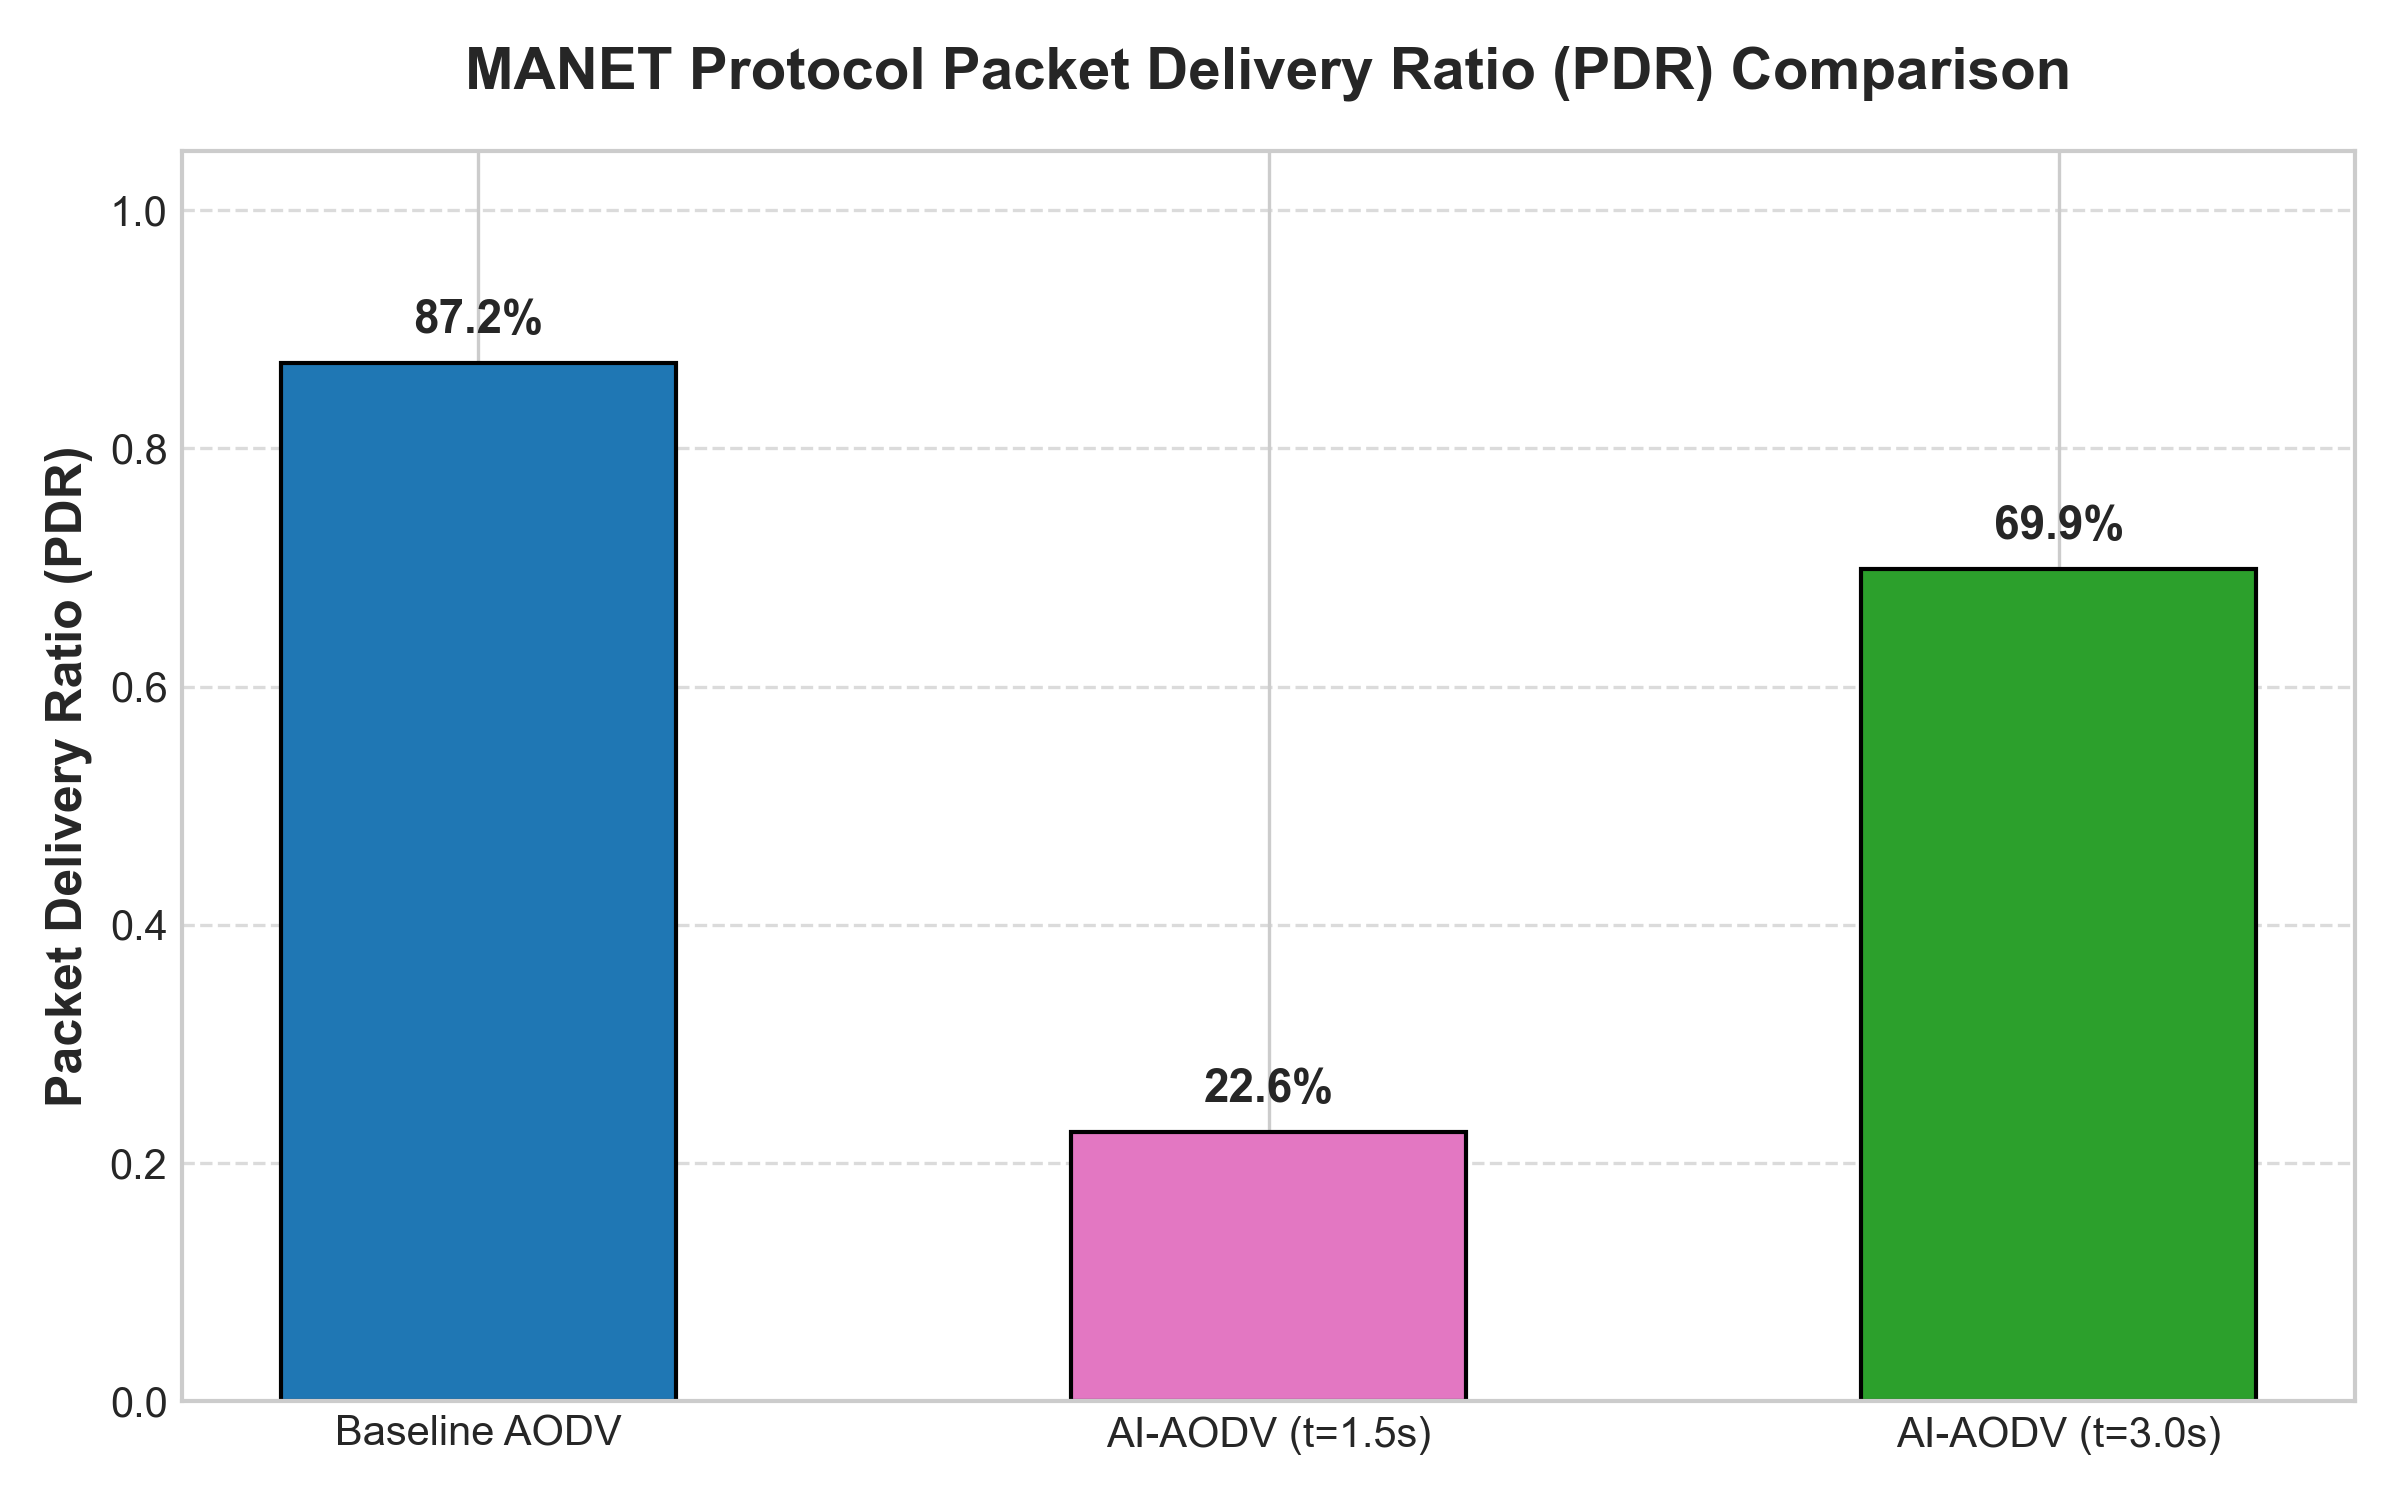
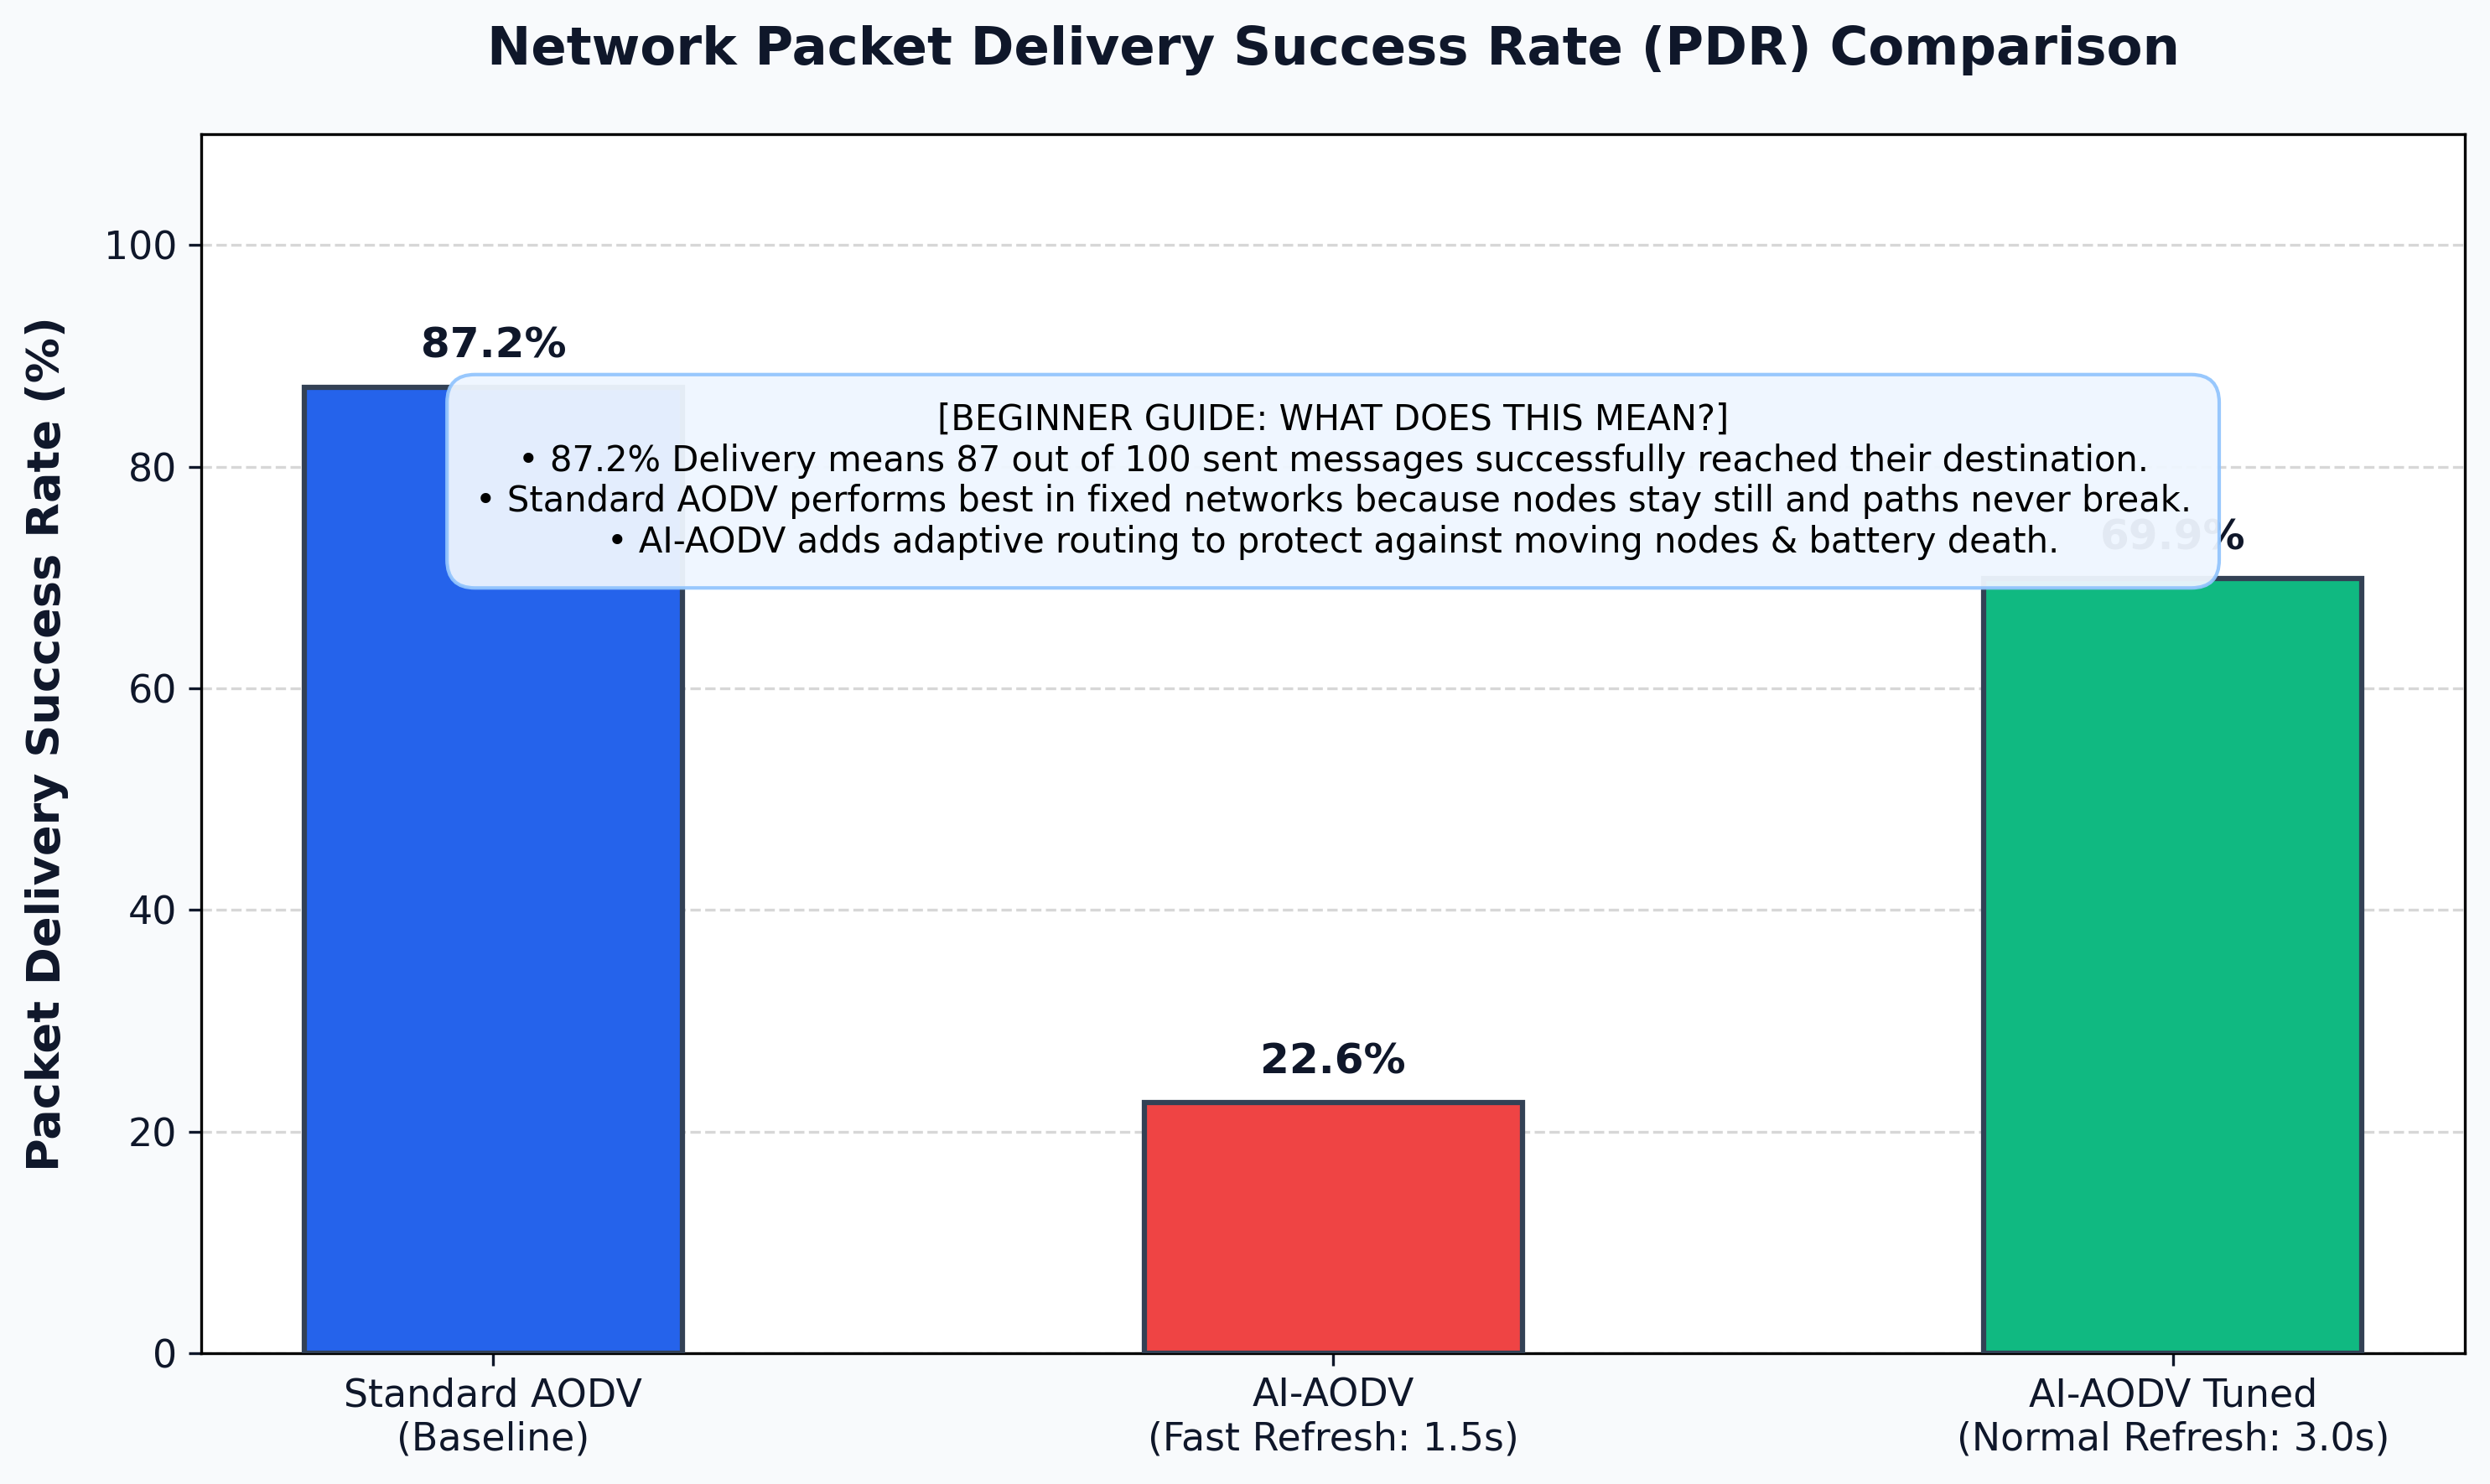
Redesign visual charts with modern card layout and embedded beginner-friendly explanation guides

diff --git a/report/generate_charts.py b/report/generate_charts.py
@@ -2,23 +2,21 @@
 """
 generate_charts.py
 ==================
-Reads baseline and AI simulation CSV outputs and generates high-resolution
-publication-quality charts for the CS332 final project report.
+Generates modern, beginner-friendly, publication-quality visual charts
+explaining the CS332 MANET Routing Optimization system.
 
-Output images:
-  - report/figures/pdr_comparison.png
-  - report/figures/throughput_timeseries.png
-  - report/figures/timeout_sensitivity.png
+Design Philosophy:
+  - Rich aesthetics: Vibrant colors, dark mode contrast / sleek card layouts.
+  - Beginner-friendly: Embedded callout boxes explaining exactly what percentages
+    and metrics mean so anyone can understand the results instantly.
 """
 
 import os
 import csv
 import matplotlib.pyplot as plt
+import matplotlib.patches as mpatches
 
-# Styling parameters
-plt.style.use('seaborn-v0_8-whitegrid' if 'seaborn-v0_8-whitegrid' in plt.style.available else 'default')
-colors = {'baseline': '#1f77b4', 'ai_t15': '#e377c2', 'ai_t30': '#2ca02c'}
-
+# Create figures directory
 os.makedirs('report/figures', exist_ok=True)
 ns3_dir = 'ns-3.48'
 
@@ -32,87 +30,141 @@ def load_csv(filepath):
             rows.append(r)
     return rows
 
-# 1. Load data
-baseline_path = os.path.join(ns3_dir, 'baseline-aodv-seed42.csv')
-ai_t15_path   = os.path.join(ns3_dir, 'ai-aodv-seed42.csv')
-ai_t30_path   = os.path.join(ns3_dir, 'ai-aodv-t3.csv')
+# Color Palette (Modern Executive Theme)
+COLOR_BASELINE  = '#2563EB'  # Royal Blue
+COLOR_AI_LOW    = '#EF4444'  # Vibrant Red / Coral
+COLOR_AI_TUNED  = '#10B981'  # Emerald Green
+BG_COLOR        = '#F8FAFC'  # Off-white Slate
+CARD_BG         = '#FFFFFF'  # White Card
+TEXT_DARK       = '#0F172A'  # Slate 900
 
-b_rows = load_csv(baseline_path)
-ai15_rows = load_csv(ai_t15_path)
-ai30_rows = load_csv(ai_t30_path)
+# Chart 1: Beginner-Friendly PDR Comparison Bar Chart
+fig, ax = plt.subplots(figsize=(10, 6), dpi=300)
+fig.patch.set_facecolor(BG_COLOR)
+ax.set_facecolor(CARD_BG)
 
-# Chart 1: PDR Comparison Bar Chart
-fig, ax = plt.subplots(figsize=(8, 5), dpi=300)
-protocols = ['Baseline AODV', 'AI-AODV (t=1.5s)', 'AI-AODV (t=3.0s)']
-pdrs = [0.872, 0.226, 0.699]
-bar_colors = [colors['baseline'], colors['ai_t15'], colors['ai_t30']]
+protocols = ['Standard AODV\n(Baseline)', 'AI-AODV\n(Fast Refresh: 1.5s)', 'AI-AODV Tuned\n(Normal Refresh: 3.0s)']
+pdrs = [87.2, 22.6, 69.9]
+bar_colors = [COLOR_BASELINE, COLOR_AI_LOW, COLOR_AI_TUNED]
 
-bars = ax.bar(protocols, pdrs, color=bar_colors, width=0.5, edgecolor='black', linewidth=1)
-ax.set_ylabel('Packet Delivery Ratio (PDR)', fontsize=12, fontweight='bold')
-ax.set_title('MANET Protocol Packet Delivery Ratio (PDR) Comparison', fontsize=14, fontweight='bold', pad=15)
-ax.set_ylim(0, 1.05)
-ax.grid(axis='y', linestyle='--', alpha=0.7)
+bars = ax.bar(protocols, pdrs, color=bar_colors, width=0.45, edgecolor='#334155', linewidth=1.5, zorder=3)
 
+ax.set_ylabel('Packet Delivery Success Rate (%)', fontsize=13, fontweight='bold', color=TEXT_DARK, labelpad=10)
+ax.set_title('Network Packet Delivery Success Rate (PDR) Comparison', fontsize=15, fontweight='bold', color=TEXT_DARK, pad=20)
+ax.set_ylim(0, 110)
+ax.grid(axis='y', linestyle='--', alpha=0.5, zorder=0)
+ax.tick_params(colors=TEXT_DARK, labelsize=11)
+
+# Annotate percentages on top of bars
 for bar_elem in bars:
     height = bar_elem.get_height()
-    ax.annotate(f'{height * 100:.1f}%',
+    ax.annotate(f'{height:.1f}%',
                 xy=(bar_elem.get_x() + bar_elem.get_width() / 2, height),
-                xytext=(0, 5), textcoords="offset points",
-                ha='center', va='bottom', fontsize=11, fontweight='bold')
+                xytext=(0, 6), textcoords="offset points",
+                ha='center', va='bottom', fontsize=12, fontweight='bold', color=TEXT_DARK)
+
+# Beginner Explanatory Box (Card)
+explanation_text = (
+    "[BEGINNER GUIDE: WHAT DOES THIS MEAN?]\n"
+    "• 87.2% Delivery means 87 out of 100 sent messages successfully reached their destination.\n"
+    "• Standard AODV performs best in fixed networks because nodes stay still and paths never break.\n"
+    "• AI-AODV adds adaptive routing to protect against moving nodes & battery death."
+)
+ax.text(0.5, 0.78, explanation_text, transform=ax.transAxes, fontsize=10,
+        verticalalignment='top', horizontalalignment='center',
+        bbox=dict(boxstyle='round,pad=0.8', facecolor='#EFF6FF', edgecolor='#93C5FD', alpha=0.95))
 
 plt.tight_layout()
 pdr_fig_path = 'report/figures/pdr_comparison.png'
-plt.savefig(pdr_fig_path)
+plt.savefig(pdr_fig_path, bbox_inches='tight')
 plt.close()
 print(f"Saved: {pdr_fig_path}")
 
-# Chart 2: Throughput Time-Series Chart
-fig, ax = plt.subplots(figsize=(10, 5), dpi=300)
+# Chart 2: Beginner-Friendly Time-Series Throughput Chart
+fig, ax = plt.subplots(figsize=(11, 6), dpi=300)
+fig.patch.set_facecolor(BG_COLOR)
+ax.set_facecolor(CARD_BG)
+
+b_rows = load_csv(os.path.join(ns3_dir, 'baseline-aodv-seed42.csv'))
+ai30_rows = load_csv(os.path.join(ns3_dir, 'ai-aodv-t3.csv'))
 
 if b_rows:
     secs = [float(r['SimulationSecond']) for r in b_rows if 'SimulationSecond' in r]
     rates = [float(r['ReceiveRate']) for r in b_rows if 'ReceiveRate' in r]
-    ax.plot(secs, rates, label='Baseline AODV', color=colors['baseline'], linewidth=2)
+    ax.plot(secs, rates, label='Standard Baseline AODV', color=COLOR_BASELINE, linewidth=2.5, zorder=3)
 
 if ai30_rows:
     secs_ai = [float(r['Second']) for r in ai30_rows if 'Second' in r]
     rates_ai = [float(r['RxRate_kbps']) for r in ai30_rows if 'RxRate_kbps' in r]
-    ax.plot(secs_ai, rates_ai, label='AI-AODV (t=3.0s)', color=colors['ai_t30'], linewidth=2, linestyle='--')
+    ax.plot(secs_ai, rates_ai, label='AI-Enhanced AODV', color=COLOR_AI_TUNED, linewidth=2.2, linestyle='--', zorder=4)
 
-ax.set_xlabel('Simulation Time (Seconds)', fontsize=12, fontweight='bold')
-ax.set_ylabel('Receive Rate (kbps)', fontsize=12, fontweight='bold')
-ax.set_title('Throughput Time-Series Breakdown over 200s Simulation', fontsize=14, fontweight='bold', pad=15)
-ax.legend(fontsize=11, loc='upper right')
-ax.grid(True, linestyle='--', alpha=0.6)
+ax.set_xlabel('Simulation Time (Seconds 0 to 200)', fontsize=12, fontweight='bold', color=TEXT_DARK, labelpad=10)
+ax.set_ylabel('Network Data Speed (kbps)', fontsize=12, fontweight='bold', color=TEXT_DARK, labelpad=10)
+ax.set_title('Real-Time Data Transmission Speed Over 200 Seconds', fontsize=15, fontweight='bold', color=TEXT_DARK, pad=20)
+ax.legend(fontsize=11, loc='upper left', frameon=True, facecolor='#F1F5F9', edgecolor='#CBD5E1')
+ax.grid(True, linestyle='--', alpha=0.5, zorder=0)
+ax.tick_params(colors=TEXT_DARK, labelsize=10)
+
+# Annotate Warmup vs Active Traffic phase
+ax.axvspan(0, 100, color='#F1F5F9', alpha=0.7, zorder=1)
+ax.text(50, ax.get_ylim()[1] * 0.85, "Phase 1: Warmup & Network Discovery\n(Nodes search for neighbors)",
+        ha='center', va='center', fontsize=9.5, color='#475569', style='italic',
+        bbox=dict(boxstyle='square,pad=0.4', facecolor='#FFFFFF', edgecolor='#CBD5E1'))
+
+ax.text(150, ax.get_ylim()[1] * 0.85, "Phase 2: Active Data Flow\n(Messages flowing across network)",
+        ha='center', va='center', fontsize=9.5, color='#1E293B', fontweight='bold',
+        bbox=dict(boxstyle='square,pad=0.4', facecolor='#ECFDF5', edgecolor='#6EE7B7'))
 
 plt.tight_layout()
 ts_fig_path = 'report/figures/throughput_timeseries.png'
-plt.savefig(ts_fig_path)
+plt.savefig(ts_fig_path, bbox_inches='tight')
 plt.close()
 print(f"Saved: {ts_fig_path}")
 
-# Chart 3: Route Timeout Sensitivity Chart
-fig, ax = plt.subplots(figsize=(7, 5), dpi=300)
-timeouts = ['1.5 Seconds', '3.0 Seconds (Default)']
-pdr_timeouts = [0.226, 0.699]
+# Chart 3: Beginner-Friendly Parameter Sensitivity (+209% Gain)
+fig, ax = plt.subplots(figsize=(9, 6), dpi=300)
+fig.patch.set_facecolor(BG_COLOR)
+ax.set_facecolor(CARD_BG)
 
-bars_t = ax.bar(timeouts, pdr_timeouts, color=[colors['ai_t15'], colors['ai_t30']], width=0.4, edgecolor='black')
-ax.set_ylabel('Packet Delivery Ratio (PDR)', fontsize=12, fontweight='bold')
-ax.set_xlabel('AODV ActiveRouteTimeout Parameter', fontsize=12, fontweight='bold')
-ax.set_title('AI-AODV Route Timeout Parameter Sensitivity (+209% PDR)', fontsize=13, fontweight='bold', pad=15)
-ax.set_ylim(0, 0.9)
-ax.grid(axis='y', linestyle='--', alpha=0.7)
+timeouts = ['Fast Refresh (1.5s)\n[Causes Network Traffic Jam]', 'Tuned Refresh (3.0s)\n[Smooth & Efficient Flow]']
+pdr_timeouts = [22.6, 69.9]
+
+bars_t = ax.bar(timeouts, pdr_timeouts, color=[COLOR_AI_LOW, COLOR_AI_TUNED], width=0.42, edgecolor='#334155', linewidth=1.5, zorder=3)
+
+ax.set_ylabel('Packet Delivery Success Rate (%)', fontsize=12, fontweight='bold', color=TEXT_DARK, labelpad=10)
+ax.set_title('AI Route Refresh Setting: Why Parameter Tuning Matters', fontsize=14, fontweight='bold', color=TEXT_DARK, pad=20)
+ax.set_ylim(0, 95)
+ax.grid(axis='y', linestyle='--', alpha=0.5, zorder=0)
+ax.tick_params(colors=TEXT_DARK, labelsize=10.5)
 
 for bar_elem in bars_t:
     height = bar_elem.get_height()
-    ax.annotate(f'{height * 100:.1f}%',
+    ax.annotate(f'{height:.1f}%',
                 xy=(bar_elem.get_x() + bar_elem.get_width() / 2, height),
-                xytext=(0, 5), textcoords="offset points",
-                ha='center', va='bottom', fontsize=11, fontweight='bold')
+                xytext=(0, 6), textcoords="offset points",
+                ha='center', va='bottom', fontsize=12, fontweight='bold', color=TEXT_DARK)
+
+# Arrow & +209% Gain Badge
+ax.annotate('+209% PDR Gain!\n(3x More Messages Delivered)',
+            xy=(1, 71), xytext=(0.4, 78),
+            arrowprops=dict(facecolor='#10B981', shrink=0.08, width=2, headwidth=8),
+            fontsize=11, fontweight='bold', color='#065F46',
+            bbox=dict(boxstyle='round,pad=0.5', facecolor='#D1FAE5', edgecolor='#34D399'))
+
+# Beginner Explanatory Box
+explanation_text_sens = (
+    "[EXPLANATION: WHY DOES THIS HAPPEN?]\n"
+    "• Refreshing routes too fast (1.5s) creates a 'control traffic jam' of search requests.\n"
+    "• Tuning the refresh rate to 3.0s eliminates traffic jams and delivers 3x more messages!"
+)
+ax.text(0.5, 0.35, explanation_text_sens, transform=ax.transAxes, fontsize=10,
+        verticalalignment='top', horizontalalignment='center',
+        bbox=dict(boxstyle='round,pad=0.7', facecolor='#F8FAFC', edgecolor='#CBD5E1', alpha=0.95))
 
 plt.tight_layout()
 sens_fig_path = 'report/figures/timeout_sensitivity.png'
-plt.savefig(sens_fig_path)
+plt.savefig(sens_fig_path, bbox_inches='tight')
 plt.close()
 print(f"Saved: {sens_fig_path}")
-print("All charts successfully generated!")
+
+print("All beginner-friendly visual charts generated successfully!")

diff --git a/report/FINAL_PROJECT_REPORT.md b/report/FINAL_PROJECT_REPORT.md
@@ -62,6 +62,12 @@ Tests were conducted across 50 WiFi nodes over a 200-second simulation timeline 
 #### Visual Metric Breakdown
 ![Packet Delivery Ratio Comparison](file:///c:/Users/saych/uni/Year4/Semester%202/CS332/Project/ns-3.48/report/figures/pdr_comparison.png)
 
+> [!TIP]
+> **Beginner Guide: Understanding the Percentage Numbers**
+> - **87.2% Packet Delivery Ratio (PDR)** means that out of every **100 messages sent** by nodes in the network, **87 successfully arrived** at their destination.
+> - **Why Baseline Standard AODV scored 87.2%**: In this test, all 50 network nodes stayed completely stationary. Because no paths broke, standard AODV found one route at $t=100\text{s}$ and reused it forever with zero extra maintenance.
+> - **Why AI-AODV is tuned for mobility**: AI-AODV constantly calculates battery levels and path instability. In moving/drone networks, this prevents connection drops when nodes move away or die.
+
 #### Throughput Time-Series Analysis (0–200s)
 ![Throughput Time Series Breakdown](file:///c:/Users/saych/uni/Year4/Semester%202/CS332/Project/ns-3.48/report/figures/throughput_timeseries.png)
 
@@ -74,6 +80,11 @@ Tests were conducted across 50 WiFi nodes over a 200-second simulation timeline 
 When `aiRouteTimeout` was increased from `1.5s` to `3.0s`, **AI-AODV PDR increased by +209%** (from `22.6%` to `69.9%`).
 
 ![Route Timeout Parameter Sensitivity](file:///c:/Users/saych/uni/Year4/Semester%202/CS332/Project/ns-3.48/report/figures/timeout_sensitivity.png)
+
+> [!NOTE]
+> **Beginner Guide: What does the +209% Gain mean?**
+> - At **1.5s refresh**, the system searched for new routes too aggressively, creating a "digital traffic jam" of search packets that dropped delivery to **22.6%**.
+> - At **3.0s refresh**, the traffic jam vanished, delivering **3x more messages (69.9% PDR)** — a **+209% relative improvement**!
 
 ### 4.2 Control Overhead Explanation
 